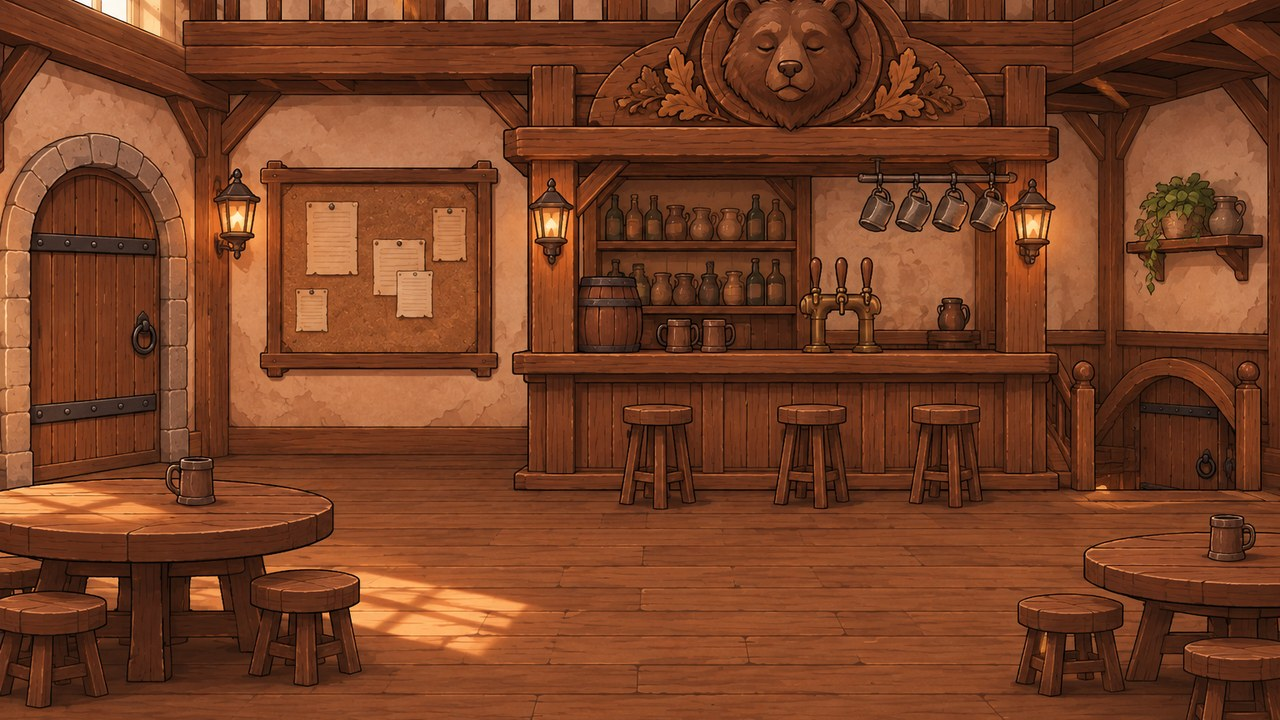
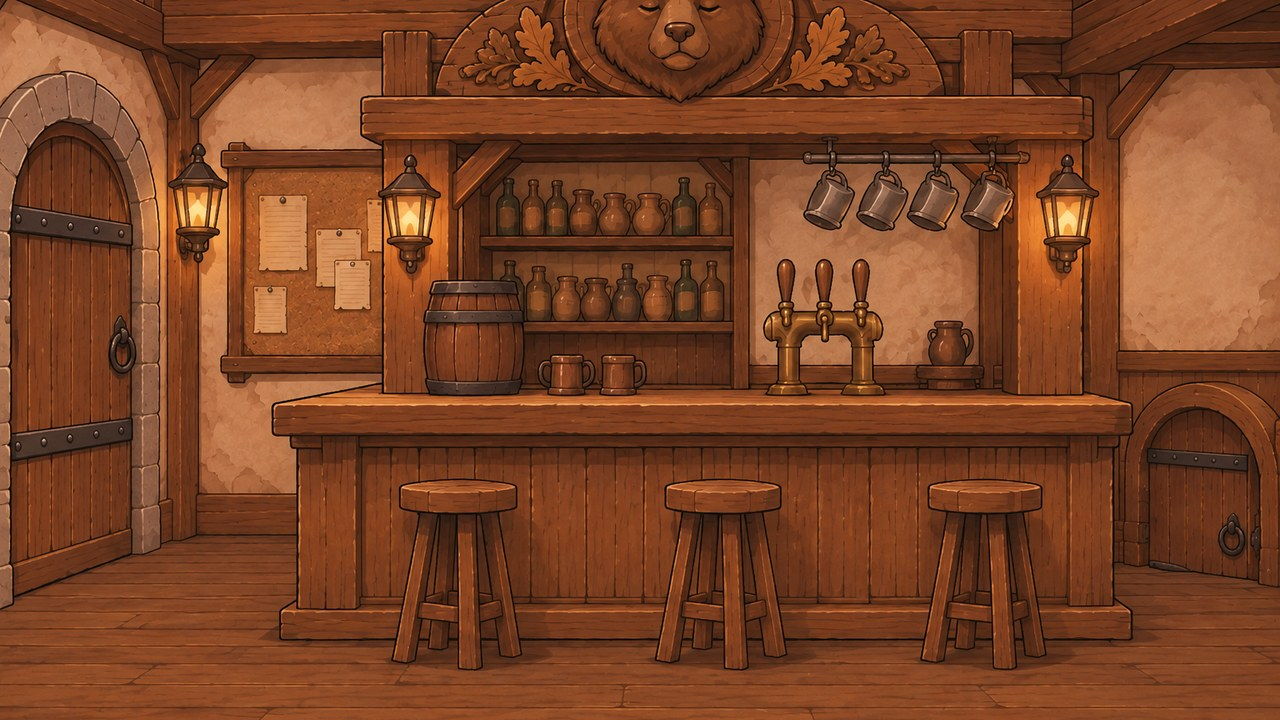
Redraw tavern and shop closer to the counter so NPCs behind furniture keep real proportions
- tavern and shop backgrounds redrawn with the bar/counter close to the camera (bar 105cm, stool 75cm, counter 95cm)
- Martha and Pip redrawn into the new scenes; Pip now inspects a coin held up instead of reaching for the scale
- art pipeline: scene "scale" shrinks the fitted character about the furniture top, "check" measures
  body length above the furniture against real height and warns outside 0.8-1.25x
- kitchen Ruby scaled to 0.8 by the same check
- look merge restricted to the opaque body so stray haze from the look image is not pasted in
- register pads the comparison image so a hand at the canvas edge does not break alignment
- new click masks and rects for tavern and shop; autotest takes shop and tavern scene screenshots
- docs: new image ids, failure log entries, proportion rule

Claude-Session: https://claude.ai/code/session_01WFgBYsqnPjwxzhWx9BLhU6

diff --git a/mosshill/tools/art_pipeline.py b/mosshill/tools/art_pipeline.py
@@ -126,7 +126,10 @@ def register(body, ex, box):
         if (s, k) not in cache:
             a = np.asarray(ga.resize((ga.width // k, ga.height // k)), np.float32)
             b = np.asarray(ge.resize((round(ge.width * s / k), round(ge.height * s / k))), np.float32)
-            cache[(s, k)] = (a, np.pad(b, PAD // k, constant_values=255))
+            p = PAD // k                    # 줄인 그림이 원본보다 작아도 비교 범위가 모자라지 않게 흰색으로 채운다
+            full = np.full((max(a.shape[0], b.shape[0]) + 2 * p, max(a.shape[1], b.shape[1]) + 2 * p), 255, np.float32)
+            full[p:p + b.shape[0], p:p + b.shape[1]] = b
+            cache[(s, k)] = (a, full)
         return cache[(s, k)]
 
     def cost(s, dx, dy, k):
@@ -295,6 +298,11 @@ def do_object(raw):
 ##   shadow    true 면 발밑 그림자 (바닥에 놓인 전신)
 ##   fit_cut   맞출 때 비교를 멈출 y (1) 그림에서 가구에 가려진 선이 cut 과 다를 때, 기본은 cut)
 ##   fit_upper 실루엣 위쪽 몇 %로 맞출지 (기본 0.6). 단독 그림의 머리 비율이 1) 과 다르면 줄여서 머리 위주로 맞춘다
+##   scale     맞춘 뒤 크기 보정 (AI 는 1) 에서 인물을 실제보다 크게 그리는 버릇이 있다).
+##             cut(가구 윗면) 높이와 실루엣 가운데를 기준으로 줄여서, 가구가 몸의 같은 곳(허리 등)을 가리게 한다
+##   check     비율 검사 {"floor": 가구 뒤 바닥 y, "furniture_cm": 가구 높이, "height_cm": 인물 키, "hair_cm": 위로 솟은 머리(선택)}
+##             → 가구 높이로 1cm 가 몇 px 인지 재서, 가구 위로 보이는 몸 길이가 실제(키 - 가구 높이)의 몇 배인지 출력.
+##             1.25배를 넘거나 0.8배 아래면 '확인 필요' 와 맞는 scale 값을 알려 준다
 ## 결과: scene_<장소>_<인물>_<busy|look>_<day|night>.png (화면 크기, 인물만 불투명)
 ##       mask_scene_<장소>_<인물>.png (클릭 모양 = 인물 실루엣)
 SCENE_STATES = ("busy", "look")
@@ -379,6 +387,8 @@ def look_from_busy(busy, look):
     area = area.filter(ImageFilter.GaussianBlur(10))
     diff = ImageChops.difference(gray_on_white(busy), gray_on_white(look)).filter(ImageFilter.GaussianBlur(2))
     mask = ImageChops.multiply(diff.point(lambda v: 255 if v > 14 else 0).filter(ImageFilter.MaxFilter(15)), area)
+    ## busy 가 불투명한 곳(얼굴·머리) 안에서만 — look 그림의 투명 배경에 남은 옅은 얼룩이 끼어들지 않게
+    mask = ImageChops.multiply(mask, busy.getchannel("A").point(lambda v: 255 if v > 128 else 0).filter(ImageFilter.MinFilter(3)))
     piece = look.copy()
     piece.putalpha(ImageChops.multiply(mask.filter(ImageFilter.GaussianBlur(5)), look.getchannel("A")))
     out = busy.copy()
@@ -440,6 +450,11 @@ def do_scene(raw):
             ref = screen_of(os.path.join(raw, "scene_%s_%s_busy.png" % (loc, who)))
             sil = ref_silhouette(bg, ref, pl["ref"])
             fit, k, ox, oy = fit_to(sil, pose["busy"], pl.get("fit_cut", pl.get("cut")), pl.get("fit_upper", 0.6))
+            if pl.get("scale", 1.0) != 1.0:
+                sc, (sy, sx) = pl["scale"], np.nonzero(sil)
+                ax = (sx.min() + sx.max()) / 2
+                ay = pl["cut"] if pl.get("cut") is not None else sy.max()
+                k, ox, oy = k * sc, ax - (ax - ox) * sc, ay - (ay - oy) * sc
             px = np.asarray(ref).astype(np.float32)[sil]
             color = (px.mean(axis=0), px.std(axis=0))
             layers = {st: place_char(pose[st], k, ox, oy, pl, color) for st in SCENE_STATES}
@@ -454,8 +469,16 @@ def do_scene(raw):
             shape = sil.point(lambda v: 1 if v > 150 else 0).convert("P")      # 그림자(옅음)는 빼고 인물만
             shape.putpalette([0, 0, 0, 255, 255, 255])
             shape.save(os.path.join(out, "mask_scene_%s_%s.png" % (loc, who)), transparency=0, optimize=True)
-            print("scene %-14s %-7s 겹침(IoU)=%.2f 배율=%.3f 화면 위치=%s" % (
-                loc, who, fit, k, ImageChops.lighter(layers["busy"].getchannel("A"), layers["look"].getchannel("A")).getbbox()))
+            box = ImageChops.lighter(layers["busy"].getchannel("A"), layers["look"].getchannel("A")).getbbox()
+            print("scene %-14s %-7s 겹침(IoU)=%.2f 배율=%.3f 화면 위치=%s" % (loc, who, fit, k, box))
+            ck = pl.get("check")
+            if ck and pl.get("cut") is not None:
+                px_cm = (ck["floor"] - pl["cut"]) / ck["furniture_cm"]
+                seen = (pl["cut"] - box[1]) / px_cm
+                want = ck["height_cm"] - ck["furniture_cm"] + ck.get("hair_cm", 0)      # hair_cm: 머리 위로 솟은 머리카락
+                ratio = seen / want
+                warn = "" if 0.8 <= ratio <= 1.25 else "  ← 확인 필요: scale 을 %.2f 로" % (pl.get("scale", 1.0) / ratio)
+                print("      비율: 가구 위로 보이는 몸 %.0fcm (실제라면 %.0fcm) = %.2f배%s" % (seen, want, ratio, warn))
 
 
 STEPS = {"bg": do_bg, "sprite": do_sprite, "face": do_face, "enemy": do_enemy,

diff --git a/mosshill/tools/art_recipes.md b/mosshill/tools/art_recipes.md
@@ -21,7 +21,9 @@
 | 그레고르 | `img_mwk05a0vTrlhPirv` | 몸. 이 화풍에서 **나이(주름)를 그리는 법**의 견본 |
 | 여성 후보 10명 (40세 미만) | 레나 `img_mwk4pph0U68HMxxT` · 이졸데 `img_mwk4pwg3bFu67AQ1` · 자라 `img_mwk4q7t4iIdGqDBx` · 하나 `img_mwk4qgtywx6u2ZP6` · 브리짓 `img_mwk4qogq5pn4Z3jN` · 셀레스트 `img_mwk4smg88Psimnwd` · 엘로디 `img_mwk4stgr8dxk6OMC` · 닉스 `img_mwk4rh90Gge9A6ra` · 로사 `img_mwk4rns6l3dnN338` · 세라핀 `img_mwk4rv56xs6vpHgX` | 카이 견본 하나로 처음부터. 나이 든 인물은 만들지 않는다 (40세 미만) |
 | 배경: 내 방 / 부엌 / 길드 앞 | `img_mwk00f9bvTm6XvLx` / `img_mwk00ppuKfGbnYrw` / `img_mwk010ifbr0lNxiK` | |
-| 배경: 광장 / 선술집 / 잡화점 | `img_mwk01cc9WcxxfKxh` / `img_mwk01nibyD82wGX9` / `img_mwk020slS8bQPtdR` | |
+| 배경: 광장 | `img_mwk01cc9WcxxfKxh` | |
+| 배경: 선술집 / 잡화점 (바·계산대를 가까이 잡은 판, 지금 쓰는 것) | `img_mwketo5muLfRunxQ` / `img_mwkf4h896XJ8x4Jn` | 바 105cm·의자 75cm·계산대 95cm 실제 비율 |
+| 배경: 선술집 / 잡화점 (멀리서 넓게 잡은 예전 판) | `img_mwk01nibyD82wGX9` / `img_mwk020slS8bQPtdR` | 가구 뒤 인물이 거인처럼 보여 교체 |
 | 배경: 숲 / 동굴1 / 동굴2 / 지도 | `img_mwk02c108Sm3wYz9` / `img_mwk02mmcAUfpVboO` / `img_mwk02zsd7TnAykBH` / `img_mwk03bkheoQNSpy0` | |
 | 장면(하던 일): 부엌 루비 / 홀 루비 | `img_mwk2b8ltoHvj1Qh2` / `img_mwk28cebpXWz68CU` | |
 | 장면(하던 일): 선술집 마르타 / 잡화점 핍 / 광장 핍 | `img_mwk337koGb2kM4Zu` / `img_mwk33ey2wlWuSMdW` / `img_mwk33ndtudBcVSua` | |
@@ -36,9 +38,9 @@
 | 인물 얼굴 다시 디자인 | 그 인물 몸 | (2) 루비 = 화풍 (3) 그레고르 = 나이 표현 (나이 든 인물일 때) |
 | 표정 | 그 인물 몸 | (2) 루비 = 화풍 — 얼굴 크기·위치는 1번 그대로 |
 | 배경 | 길드 홀 | (2) 루비 = 화풍 |
-| 장소 안 인물 1) 장면 | 그 장소 배경 | (2) 그 인물 몸 = 얼굴·옷 (3) 카이 = 그림체 — 배경에 인물을 함께 그림 (크기·자세 기준) |
+| 장소 안 인물 1) 장면 | 그 장소 배경 | (2) 그 인물 몸 = 얼굴·옷 (3) 카이 = 그림체 — 배경에 인물을 함께 그림 (자세·위치 기준). 프롬프트에 **가구 높이와 키를 cm 로** 쓴다. 그래도 AI 는 인물을 1.4~2배 크게 그리므로 `art_scenes.json` 의 `check` 로 재고 `scale` 로 줄인다 |
 | 장소 안 인물 2) '하던 일' | 1) 장면 | (2) 그 인물 몸 (3) 카이 — **1) 의 인물만** 같은 자세·비율로 크게, 배경·가구 없이 (투명) |
-| 장소 안 인물 '앞을 봄' | 2) 그림 | (2) 그 인물 몸 — 눈·입만 바꾼다 |
+| 장소 안 인물 '앞을 봄' | 2) 그림 | (2) 그 인물 몸 — 눈·입만 바꾼다. **정밀 모드(precision)** 로 (보통 모드는 고개를 돌려 버린다) |
 | 적·아이템 | 루비 | (2) 배경 1장 = 색감 |
 
 ## 3. 프롬프트 틀 (영어로, 빠짐없이)
@@ -82,6 +84,10 @@
 | 장면 인물이 고개를 들 때 머리가 10~20% 커지고 인상이 바뀜 | 머리를 통째로 다시 그리게 함 | 머리는 그대로, **눈과 입만** 바꾼다 |
 | 장면 인물이 빤히 쳐다봐서 무서움 | "카메라를 정면으로 보라" | 편안한 눈꺼풀, 살짝 치켜뜬 눈길, 작은 미소 |
 | 장면 인물 눈 색이 바뀜 | 인물 견본 없이 얼굴을 다시 그림 | 인물 몸을 2번 견본으로 넣는다 |
+| 바·계산대 뒤 인물이 거인처럼 보임 — 가구 아래 남은 길이에 허리·다리가 들어갈 수 없음 (마르타 2.2배, 핍 1.7배) | 배경이 가구를 멀리서 넓게 잡았고, AI 가 얼굴이 보이게 인물을 크게 그림. 실제 비율로 줄이면 얼굴이 뭉개지고 의자가 커 보임 | 인물이 가구 뒤에 서는 장소는 **배경을 가구 가까이 잡아** 다시 그린다 (가구 높이를 화면 % 와 cm 로 지정). 장면 단계의 `check` 가 가구 높이로 비율을 재고 `scale` 로 맞춘다 (0.8~1.25배 밖이면 경고) |
+| 크기 보정 뒤 손이 배경 물건(저울)에서 떨어짐 | 인물을 줄이면 뻗은 손도 몸 쪽으로 따라 줄어든다 | 손·소품이 몸 앞(가구 윗면 위)에 있는 자세로. 배경 물건을 만지는 자세는 피한다 |
+| '앞을 봄' 그림에서 고개가 정면으로 돌아감 | 보통 모드가 머리를 다시 그림 | 정밀 모드 + '머리 그대로, 눈동자와 입만' |
+| '앞을 봄' 그림 투명 배경에 옅은 얼룩 → 머리 옆 검은 자국 | 정밀 모드 결과의 투명 배경이 완전히 투명하지 않음 | 가공에서 몸 그림이 불투명한 곳 안에서만 합친다 (`look_from_busy`) |
 | 영역 지정(마스크) 편집 실패 | 이미지 서버가 마스크를 거부 ("Invalid image data") | 마스크 없이 "~만 바꿔"로 그리고 `art_pipeline.py` 가 바뀐 곳만 오린다 |
 
 ## 5. 지금 게임에 들어간 그림의 원본 id (2026-11-17)
@@ -95,8 +101,10 @@
 | 장소 인물 2) 하던 일 / 앞을 봄 — 부엌 루비 (도마·당근 포함) | `img_mwk7pc09G7ElWjcv` / `img_mwk7q63yNWNOkHvU` |
 | 부엌 배경 (식탁 위 채소 치운 판) | `img_mwk7p1h5vMRQxjDf` — 원본 배경에서 식탁 가운데만 이 그림으로 교체 |
 | 길드 홀 루비 | `img_mwk6o5dzKhYphXZU` / `img_mwk6yuuuSZxYZcY3` |
-| 선술집 마르타 | `img_mwk6oedcaIUMwko8` / `img_mwk6z55aHqkz4brz` |
-| 잡화점 핍 (안경 추가본) | `img_mwk78bq8hfBDZSQl` / `img_mwk78mczfQ4x80FA` |
+| 선술집 마르타 (가까운 배경판) — 1) 장면 / 2) 하던 일 / 앞을 봄 | `img_mwkevd8k42sjW1jn` / `img_mwkewnqqXXwNxBNb` / `img_mwkeyo6bqUR647Bs` (scale 0.66) |
+| 잡화점 핍 (가까운 배경판, 금화를 눈앞에 들고 살핌) — 1) 장면 / 2) 하던 일 / 앞을 봄 | `img_mwkf5ohi9lqOiGCF` / `img_mwkf7ariy6pdxx7U` / `img_mwkf8fifRo3DwyRV` (scale 0.74) |
+| 선술집 마르타 (예전 넓은 배경판) | `img_mwk6oedcaIUMwko8` / `img_mwk6z55aHqkz4brz` |
+| 잡화점 핍 (예전 넓은 배경판, 안경 추가본) | `img_mwk78bq8hfBDZSQl` / `img_mwk78mczfQ4x80FA` |
 | 광장 핍 (술통 포함) | `img_mwk6owfupJ7J4qRB` / `img_mwk6zn45hSa75y0G` |
 
 이미지 서버 제한: **하루 100회, 분당 6회**. 여러 장은 6장씩 나눠 보낸다.

diff --git a/mosshill/README.md b/mosshill/README.md
@@ -94,6 +94,9 @@ python3 tools/art_pipeline.py <원본폴더> object    # 클릭 모양만 (tools
   2) 1) 을 견본으로 넣고 **같은 자세·비율의 인물만** 크게 다시 그린다 → 얼굴이 또렷하다 (원작처럼 인물만 따로 있는 그림).
   `scene` 단계가 2) 를 1) 의 인물 실루엣에 자동으로 겹쳐 맞추고(배율·위치), 1) 의 색감을 옮기고, 가구 뒤는 잘라낸다.
   외곽선은 두르지 않는다. 장면별 값은 `tools/art_scenes.json` 의 `place`. 클릭 모양은 인물 실루엣에서 자동으로 만든다.
+  **비율 검사:** AI 는 인물을 실제보다 크게 그리는 버릇이 있다. 가구 높이(바 105cm 등)로 1cm 가 몇 px 인지 재서
+  가구 위로 보이는 몸이 실제의 몇 배인지 출력하고(`check`), `scale` 로 맞춘다. 바·계산대 뒤에 서는 장소(선술집·잡화점)는
+  배경을 가구 가까이 잡아 다시 그렸다 — 멀리서 넓게 잡은 배경에 실제 비율로 넣으면 얼굴이 뭉개진다.
   하던 일(`busy`)과 눈만 들어 앞을 보는 모습(`look`) 두 장 — 장소에 들어가면 busy 에서 look 으로 바뀐다.
 - 밤(저녁·밤)에는 인물에도 푸른 색조를 입힌다 (`motions.rpy` 의 `light_matrix`).
 - 마우스를 올리면 색을 몇 배로 곱해 밝힌다 (밝기를 더하면 밤 그림이 뿌옇게 뜸, `location.rpy` 의 `hover_matrix`).

diff --git a/docs/game-design.md b/docs/game-design.md
@@ -229,7 +229,7 @@ mosshill/                         ← 새 Ren'Py 프로젝트 (앞 데모와 별
 |---|---|---|
 | 배경 | 1280×720 JPG | 생성은 1536×1024 → 위아래 잘라 16:9 |
 | 대화 스프라이트 | 480×720 투명 PNG | 3/4 측면, 허벅지에서 잘림, 화면 높이 가득. NPC는 왼쪽을, 주인공은 오른쪽을 바라봄 |
-| 장소 안 인물 | 1280×720 투명 PNG (인물만 불투명) | 배경 원본에 인물을 그려 넣고 차이만 오려냄, 낮/밤 |
+| 장소 안 인물 | 1280×720 투명 PNG (인물만 불투명) | 배경에 함께 그린 장면으로 자세·위치를 정하고, 크게 다시 그린 인물을 겹쳐 맞춤. 가구 높이(cm)로 비율을 검사해 0.8~1.25배 안으로. 가구 뒤에 서는 인물이 있는 장소는 배경을 가구 가까이 잡는다 |
 | 표정 | 몸과 같은 캔버스 | 표정만 바꿔 다시 그린 뒤, 원본과 위치·크기를 맞추고 **달라진 부분만** 오려냄 |
 | 적 | 투명 PNG, 키 160~380 | 여백 자르고 바닥 정렬 (보스가 가장 큼) |
 | 아이콘 | 96×96 PNG | 4×4 한 장으로 생성 → 칸별로 자름 |
